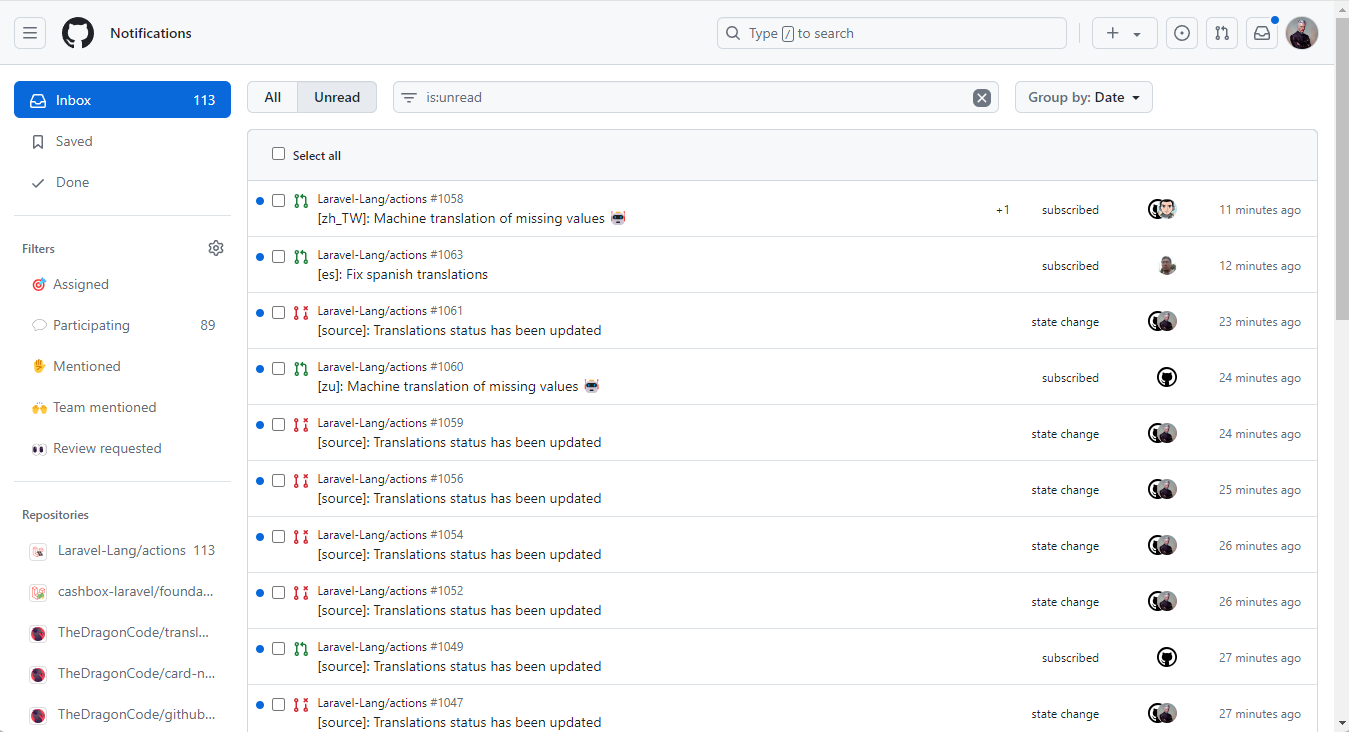
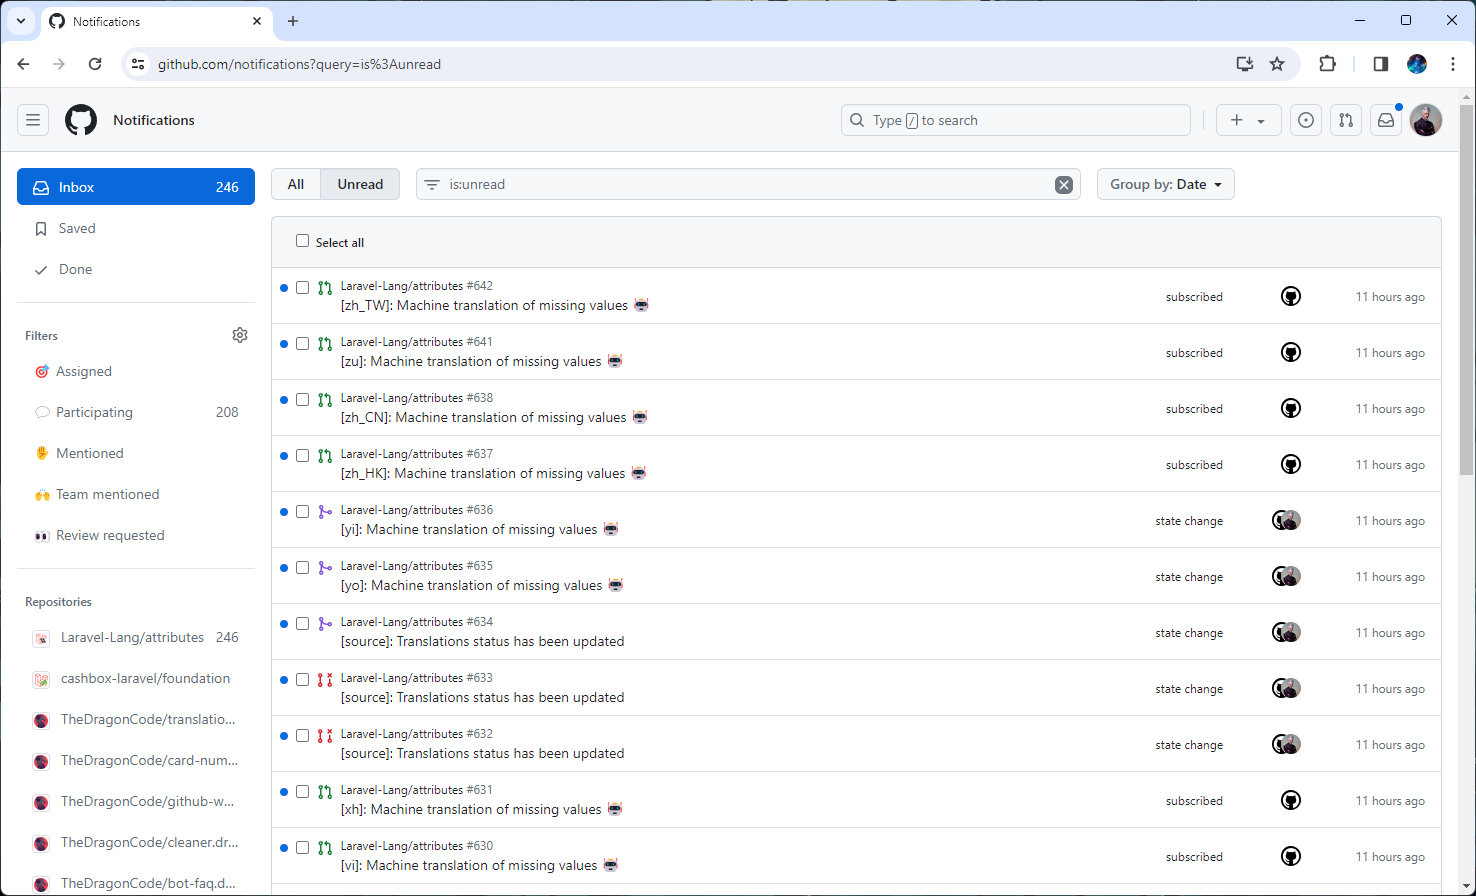
Updated images with the result of the work

diff --git a/README.md b/README.md
@@ -106,6 +106,10 @@ With this set of options, notifications that have:
 
 ![after](.github/images/after.png)
 
+### After With `--with-open` option
+
+![after](.github/images/after-with-open.png)
+
 ## Support Us
 
 ❤ The Dragon Code? Please consider supporting our collective on [Boosty](https://boosty.to/dragon-code).
